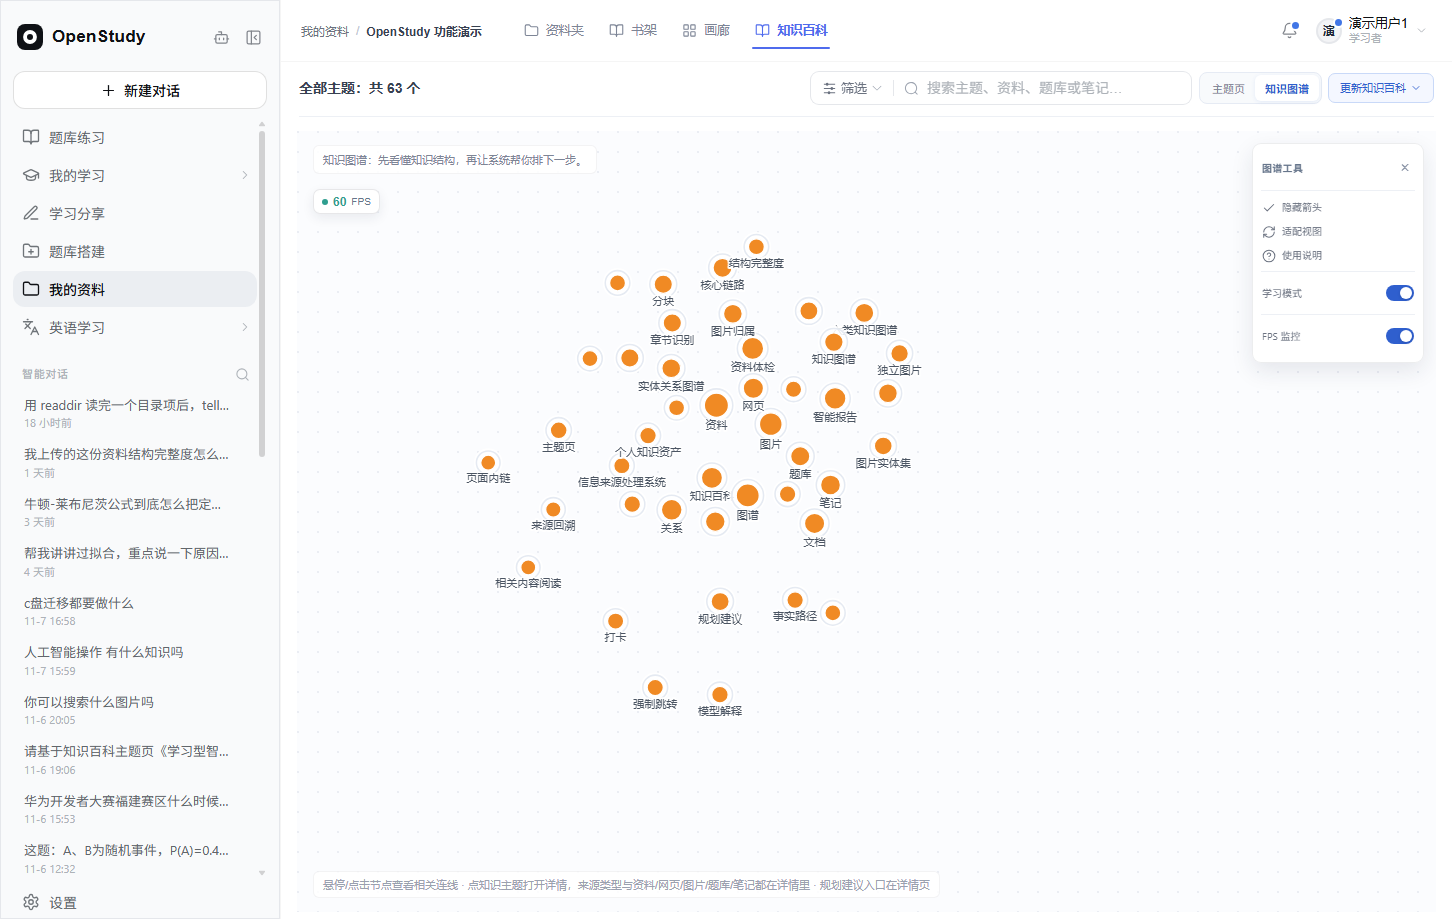
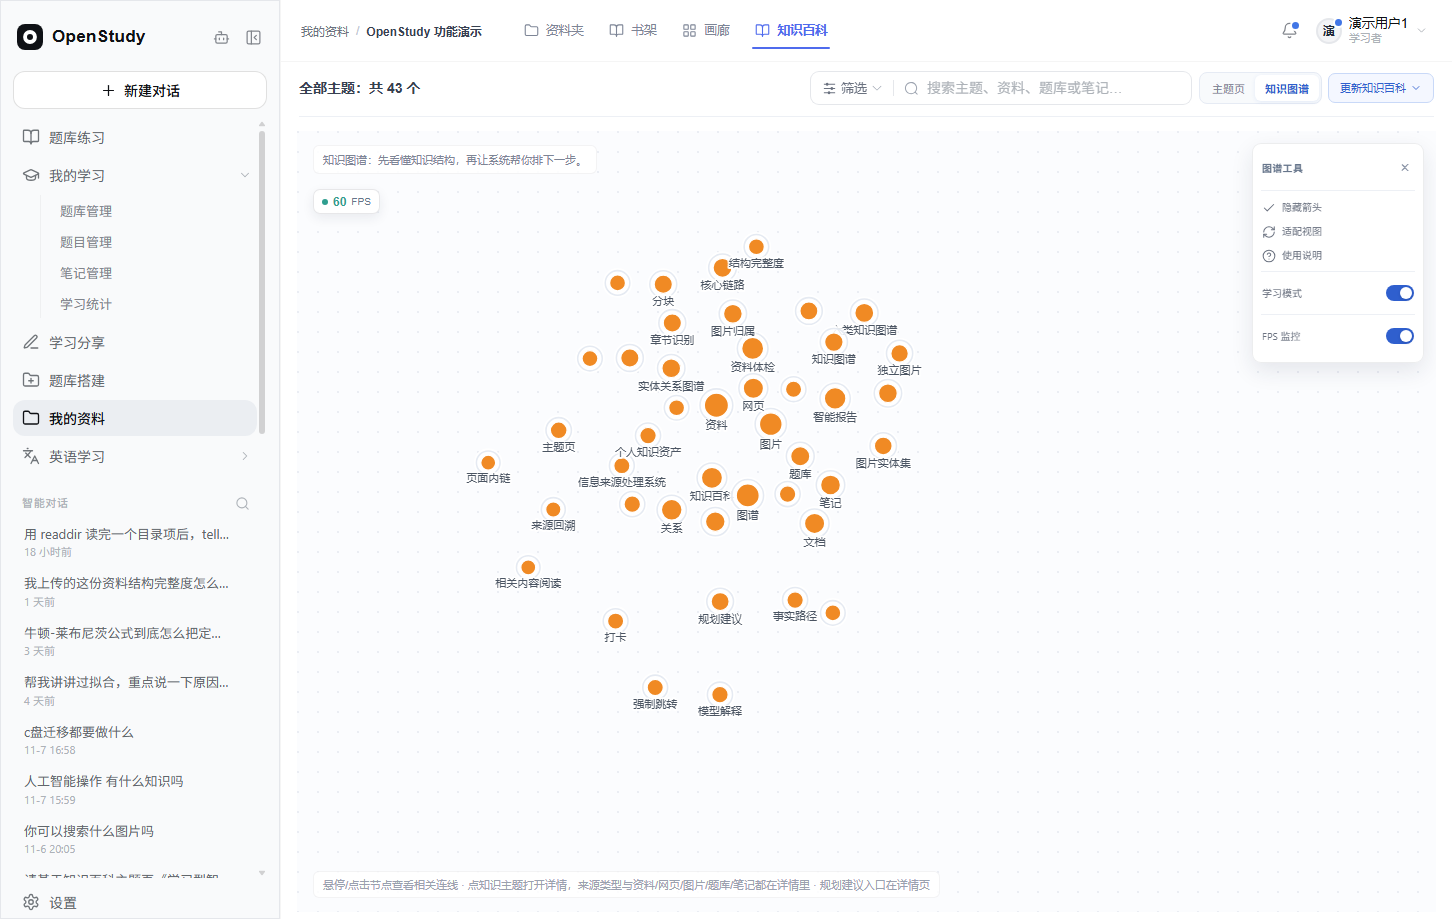
fix: match graph count to learning mode view

Changed region(s): [[0.0, 0.2133, 0.155, 0.975]]

diff --git a/openstudy-vue3-ts/src/views/front/workspace/components/KnowledgeWikiPanel.vue b/openstudy-vue3-ts/src/views/front/workspace/components/KnowledgeWikiPanel.vue
@@ -861,6 +861,9 @@ const mapNodes = computed(() => {
     })
 })
 
+// 学习模式/来源筛选后，顶栏计数与画布实际节点保持一致。
+watch(() => mapNodes.value.length, (count) => emit('stats', { total: count }), { immediate: true })
+
 /** 动画线坐标跟随当前节点位置实时重算，拖拽节点时不会留在原地。 */
 function adviceLinePosition(line: any) {
   if (!line) return null
